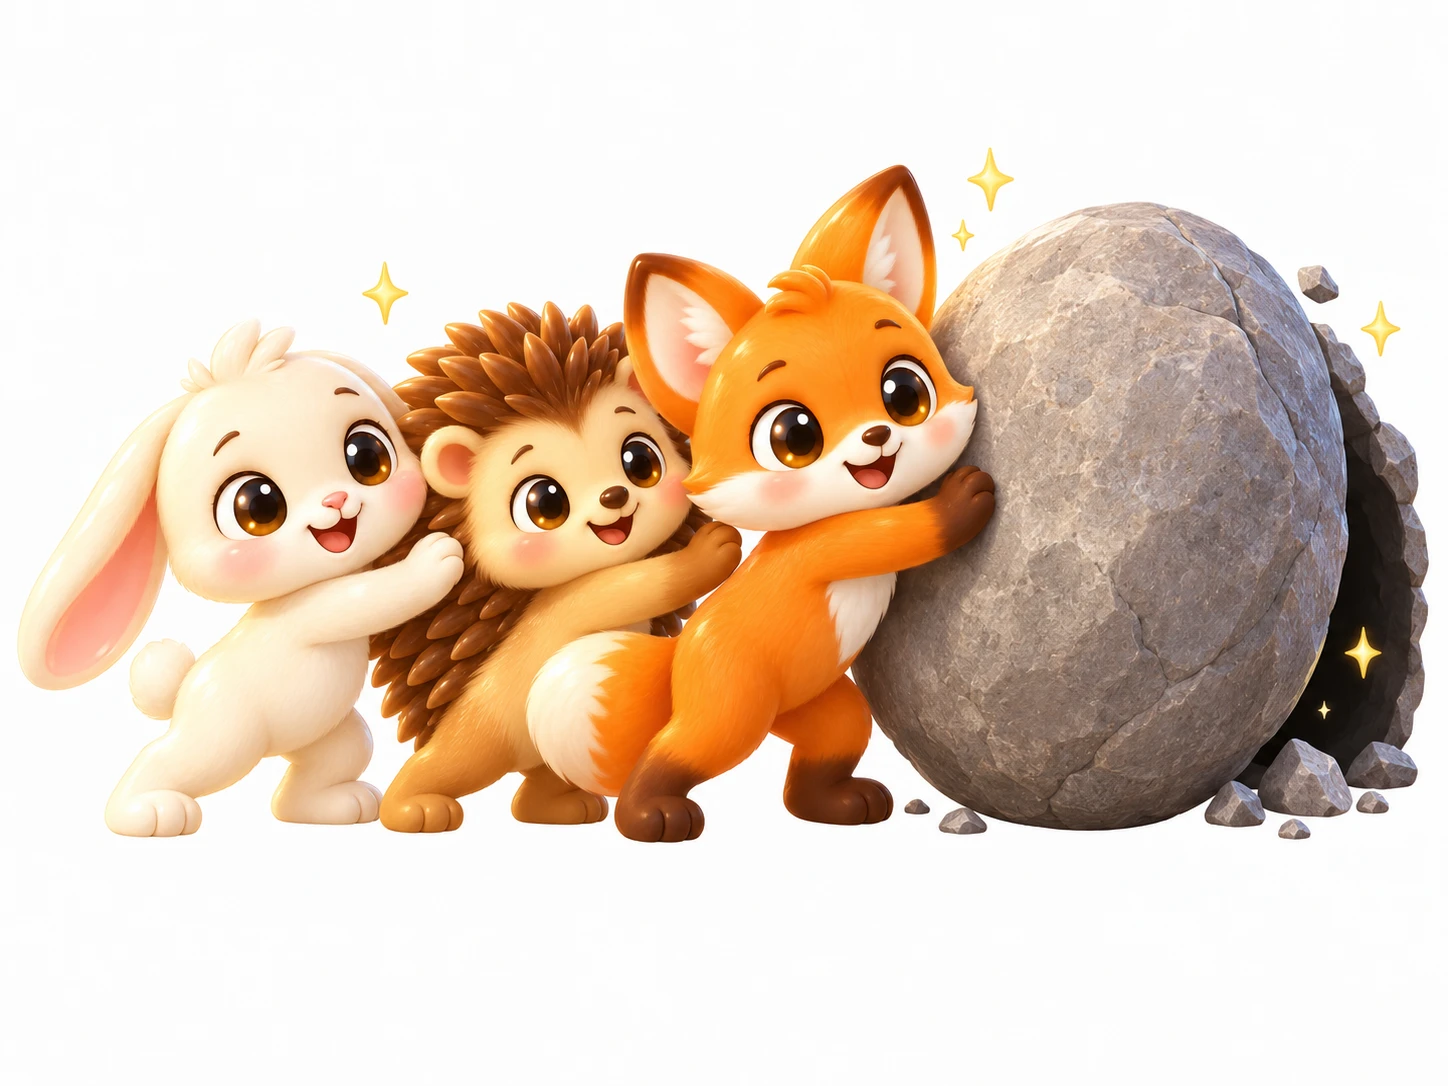
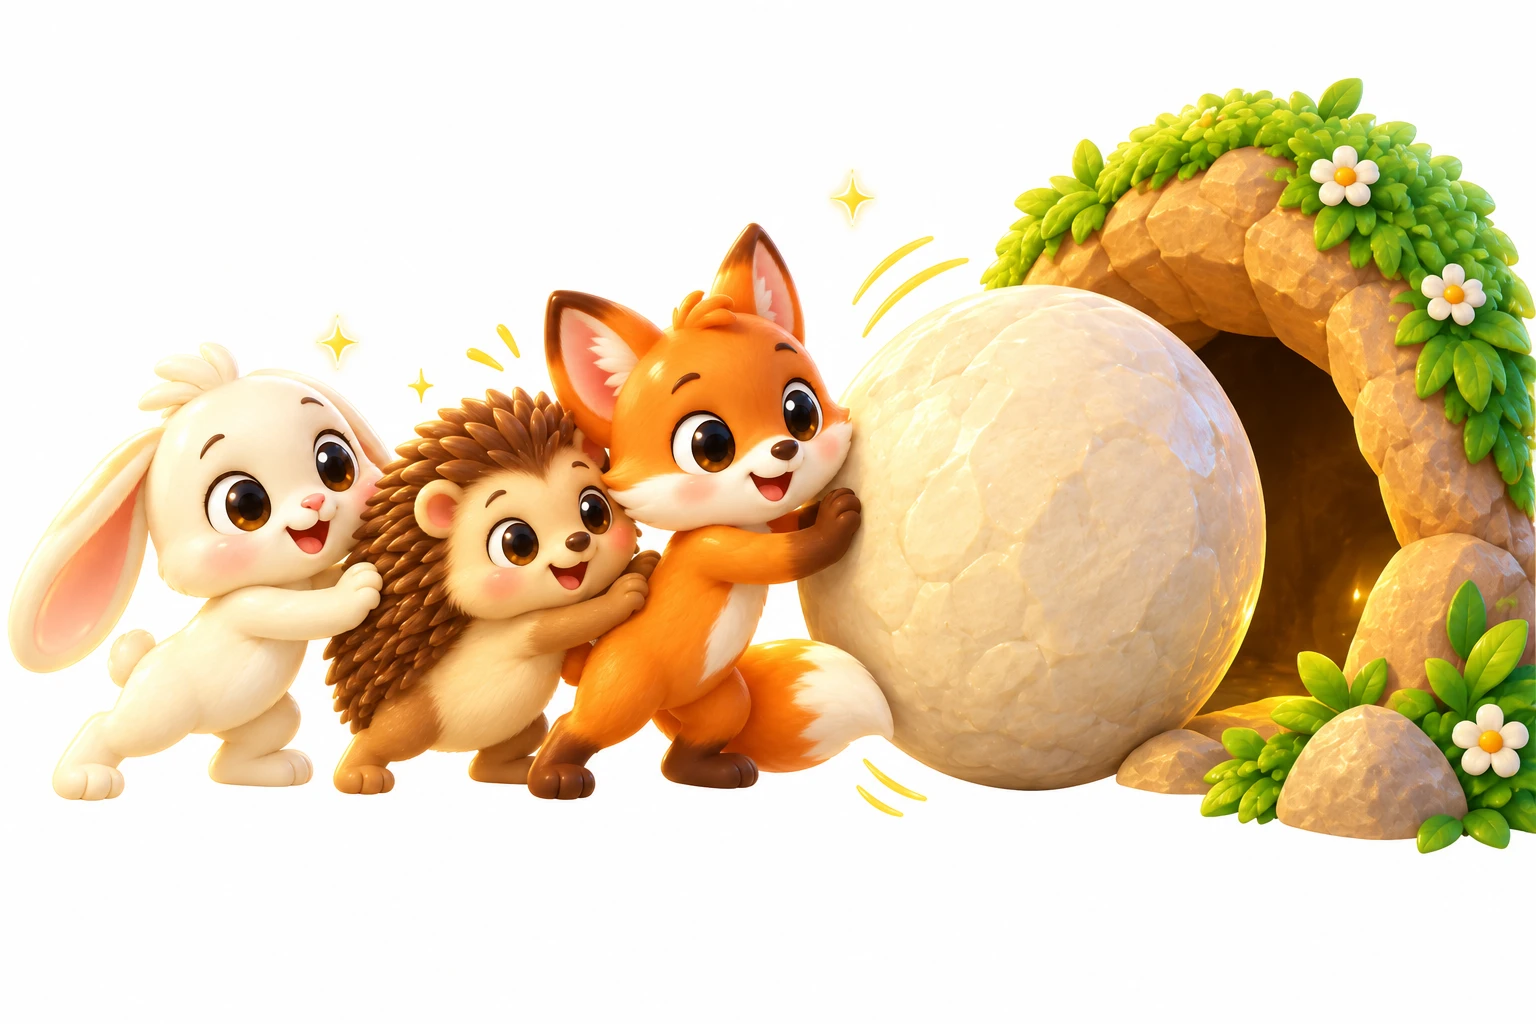
4-6: облачный и драконий острова; сцена с камнем — валун теперь тот же
Драконий остров совпал с полянкой по пропорциям один в один (1344x946
против 1202x848, то же отношение) — на карте встанут ровно.

В friends-push генератор дорисовал пещеру, и скалу срезало правым краем
кадра: справа остаётся 2 пикселя поля. Переписал промпт — пещеру из сцены
убираем, она у нас отдельной картинкой.

Claude-Session: https://claude.ai/code/session_01F8Ku32rN8SvpondWNMohMi

diff --git a/docs/WowSpeak_промпты_4-6.md b/docs/WowSpeak_промпты_4-6.md
@@ -205,10 +205,12 @@ A cute cartoon fox cub standing straight and facing the viewer, arms relaxed dow
 
 **Прикрепить две картинки: зайчика и cave-closed.** Валун должен быть тот же
 самый, что лежит во входе в пещеру — светлый кремово-белый, а не серый.
+Пещеру в кадр не берём: она у нас уже есть отдельной картинкой, а когда
+генератор рисует её здесь, сцена не помещается в кадр и скалу срезает краем.
 
 ```
-Three cute cartoon animal cubs — a cream-white bunny, a brown hedgehog and an orange fox — pushing together against a big round boulder that is starting to roll aside, revealing a dark gap behind it. The boulder is exactly the one from the attached cave picture: smooth pale cream-white stone with soft rounded facets, not grey and not rough. The three cubs are exactly the characters from the attached picture, same fur colors and same faces. All three lean into the boulder with their paws, cheerful and determined, a few effort sparkles around them. Horizontal composition, all three animals and the boulder fully visible with clear empty margin around. Bright 3D rendered cartoon style, Pixar-like, soft rounded glossy shapes, vivid saturated colors, soft warm lighting from the top-left. No text. Plain flat pure white background, no shadow on the background.
+Three cute cartoon animal cubs — a cream-white bunny, a brown hedgehog and an orange fox, exactly the characters from the attached picture with the same fur colors and the same faces — pushing together against a big round smooth pale cream-white boulder with soft rounded facets, the same stone as in the second attached picture. The boulder has already started to roll aside and a narrow dark gap is visible behind it. Nothing else in the scene: no cave, no rock arch, no grass, only the three cubs, the boulder and the dark gap. All three lean into the boulder with their paws, cheerful and determined, a few effort sparkles around them. Horizontal composition, zoomed out so that every figure is complete, with a wide empty white margin on all four sides and nothing touching the edges of the frame. Bright 3D rendered cartoon style, Pixar-like, soft rounded glossy shapes, vivid saturated colors, soft warm lighting from the top-left. No text. Plain flat pure white background, no shadow on the background.
 ```
 
-**Проверить:** валун такой же светлый, как у входа в пещеру; это те же три
-зверька; камень уже сдвинулся, за ним видна щель.
+**Проверить:** ничего не упирается в край кадра; валун светлый, как у входа
+в пещеру; это те же три зверька; камень уже сдвинулся, за ним видна щель.
